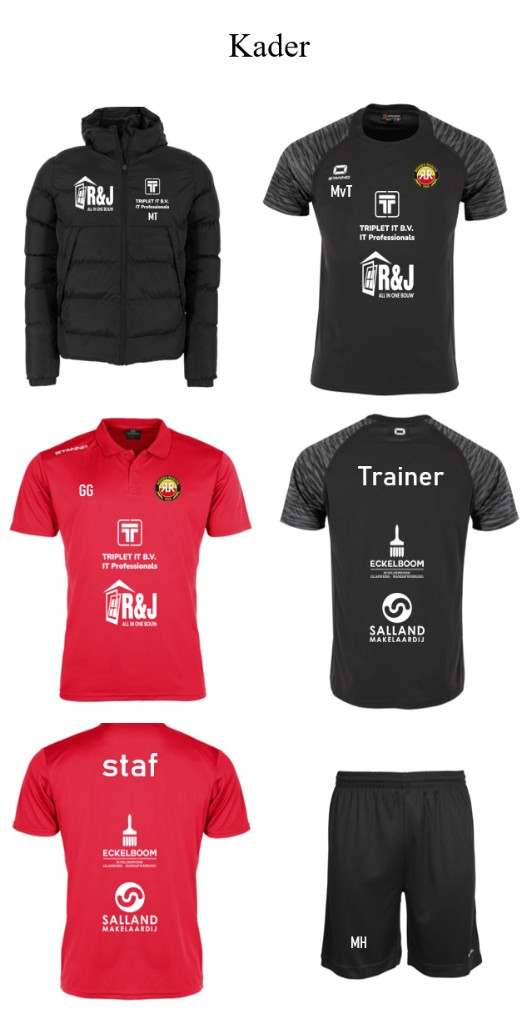
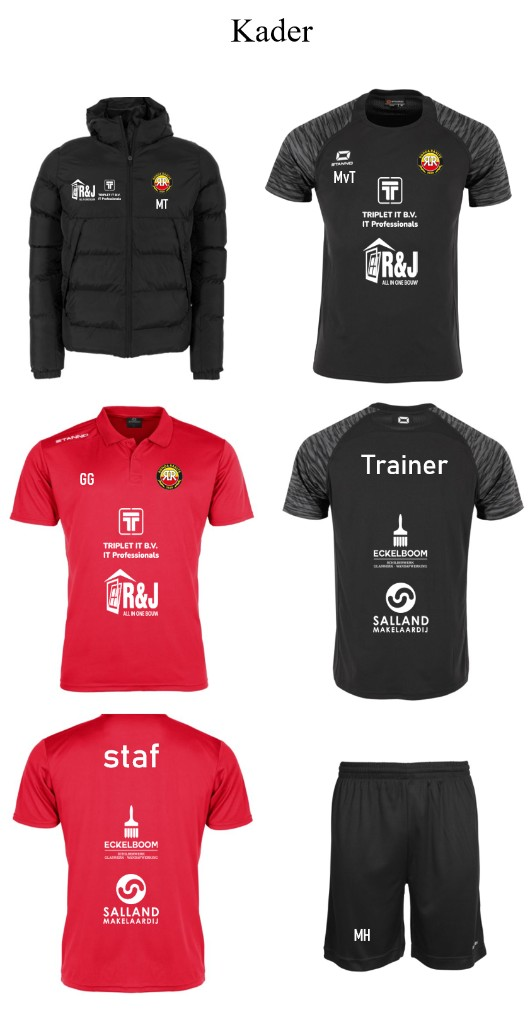
Vervang de kitfoto’s en zet Rohda op de padded.

diff --git a/boot.php b/boot.php
@@ -1043,7 +1043,7 @@ function syncKitPrintFromPhotos(mysqli $db): void {
     }
     $done = true;
     $mark = __DIR__ . '/.data/print-photo-v';
-    if (is_file($mark) && trim((string) file_get_contents($mark)) === '1') {
+    if (is_file($mark) && trim((string) file_get_contents($mark)) === '2') {
         return;
     }
     ensureTypePrintColumns($db);
@@ -1059,7 +1059,7 @@ function syncKitPrintFromPhotos(mysqli $db): void {
         11 => ['print_rohda' => 1, 'print_initials' => 1, 'print_sponsor' => 1, 'print_sponsor_back' => 1, 'print_sponsor_padded' => 0, 'print_sponsor_jacket' => 0, 'print_sponsor_bag' => 0, 'print_name_back' => 0, 'print_staff_text' => 1],
         12 => ['print_rohda' => 0, 'print_initials' => 0, 'print_sponsor' => 0, 'print_sponsor_back' => 0, 'print_sponsor_padded' => 0, 'print_sponsor_jacket' => 0, 'print_sponsor_bag' => 0, 'print_name_back' => 0, 'print_staff_text' => 0],
         13 => ['print_rohda' => 0, 'print_initials' => 1, 'print_sponsor' => 0, 'print_sponsor_back' => 0, 'print_sponsor_padded' => 0, 'print_sponsor_jacket' => 1, 'print_sponsor_bag' => 0, 'print_name_back' => 0, 'print_staff_text' => 0],
-        14 => ['print_rohda' => 0, 'print_initials' => 1, 'print_sponsor' => 0, 'print_sponsor_back' => 0, 'print_sponsor_padded' => 1, 'print_sponsor_jacket' => 0, 'print_sponsor_bag' => 0, 'print_name_back' => 0, 'print_staff_text' => 0],
+        14 => ['print_rohda' => 1, 'print_initials' => 1, 'print_sponsor' => 0, 'print_sponsor_back' => 0, 'print_sponsor_padded' => 1, 'print_sponsor_jacket' => 0, 'print_sponsor_bag' => 0, 'print_name_back' => 0, 'print_staff_text' => 0],
         15 => ['print_rohda' => 1, 'print_initials' => 1, 'print_sponsor' => 0, 'print_sponsor_back' => 0, 'print_sponsor_padded' => 0, 'print_sponsor_jacket' => 0, 'print_sponsor_bag' => 1, 'print_name_back' => 0, 'print_staff_text' => 0],
         19 => ['print_rohda' => 1, 'print_initials' => 1, 'print_sponsor' => 1, 'print_sponsor_back' => 1, 'print_sponsor_padded' => 0, 'print_sponsor_jacket' => 0, 'print_sponsor_bag' => 0, 'print_name_back' => 0, 'print_staff_text' => 0],
         23 => ['print_rohda' => 1, 'print_initials' => 1, 'print_sponsor' => 1, 'print_sponsor_back' => 1, 'print_sponsor_padded' => 0, 'print_sponsor_jacket' => 0, 'print_sponsor_bag' => 0, 'print_name_back' => 0, 'print_staff_text' => 1],
@@ -1094,7 +1094,7 @@ function syncKitPrintFromPhotos(mysqli $db): void {
     $db->query("UPDATE clothing_types SET display_name='Logo sponsor regenjas' WHERE id=29");
     $db->query("UPDATE clothing_types SET display_name='Logo sponsor tas' WHERE id=30");
     @mkdir(dirname($mark), 0750, true);
-    file_put_contents($mark, "1\n");
+    file_put_contents($mark, "2\n");
 }
 
 function ensureTypeMetaColumns(mysqli $db): void {

diff --git a/index.php b/index.php
@@ -1269,10 +1269,10 @@ details.shop-more[open] > summary{margin-bottom:10px;color:var(--accent-text)}
 
   <section class="kit-design" id="design">
     <figure>
-      <img src="<?= assetUrl('speler-kit.png') ?>" width="992" height="1024" alt="Spelerstenue 14-2: tas, jassen, shirt, broekje, footless en gripsokken">
+      <img src="<?= assetUrl('speler-kit.png') ?>" width="1024" height="1020" alt="Spelerstenue 14-2: tas, jassen, shirt, broekje, footless en gripsokken">
     </figure>
     <figure>
-      <img src="<?= assetUrl('kader-kit.png') ?>" width="522" height="1024" alt="Kadertenue 14-2: padded, shirt, polo en broekje">
+      <img src="<?= assetUrl('kader-kit.png') ?>" width="530" height="1024" alt="Kadertenue 14-2: padded, shirt, polo en broekje">
     </figure>
   </section>
 
@@ -1624,7 +1624,7 @@ details.shop-more[open] > summary{margin-bottom:10px;color:var(--accent-text)}
   <details class="section fold" id="bestel">
     <summary class="fold-head"><h3>Bestelling</h3><span class="fold-meta" id="bestelMeta"><?= (int) $orderPieces ?> stuks</span></summary>
     <p class="sub" id="bestelSub"><?= (int) $orderPieces ?> stuks<?php if ($canEdit && $orderTotal > 0): ?> · <?= euro($orderTotal) ?> excl. · <?= euroIncl($orderTotal) ?><?php endif; ?> · artikelnummers, maten en print.<?= $canEdit ? ' Uitvinken haalt het item uit prijs en Excel, niet van de speler.' : '' ?></p>
-    <p class="shop-rule"><b>Shirt / keeperstenue / staf shirt / polo:</b> logo Rohda, logo sponsor voorkant, logo sponsor achterkant, initialen<?= ' · ' ?>nummer alleen op het spelersshirt, tekst staf op staf shirt en polo · <b>Regenjas:</b> initialen voorkant, logo sponsor achterkant · <b>Padded:</b> logo sponsor voorkant, initialen · <b>Tas:</b> logo Rohda, logo sponsor, initialen · <b>Broek:</b> initialen · <b>Sokken:</b> geen bedrukking</p>
+    <p class="shop-rule"><b>Shirt / keeperstenue / staf shirt / polo:</b> logo Rohda, logo sponsor voorkant, logo sponsor achterkant, initialen<?= ' · ' ?>nummer alleen op het spelersshirt, tekst staf op staf shirt en polo · <b>Regenjas:</b> initialen voorkant, logo sponsor achterkant · <b>Padded:</b> logo Rohda, logo sponsor voorkant, initialen · <b>Tas:</b> logo Rohda, logo sponsor, initialen · <b>Broek:</b> initialen · <b>Sokken:</b> geen bedrukking</p>
 
     <div class="actions">
       <a class="btn dark" href="?csv=bestel">Excel-bestellijst</a>
